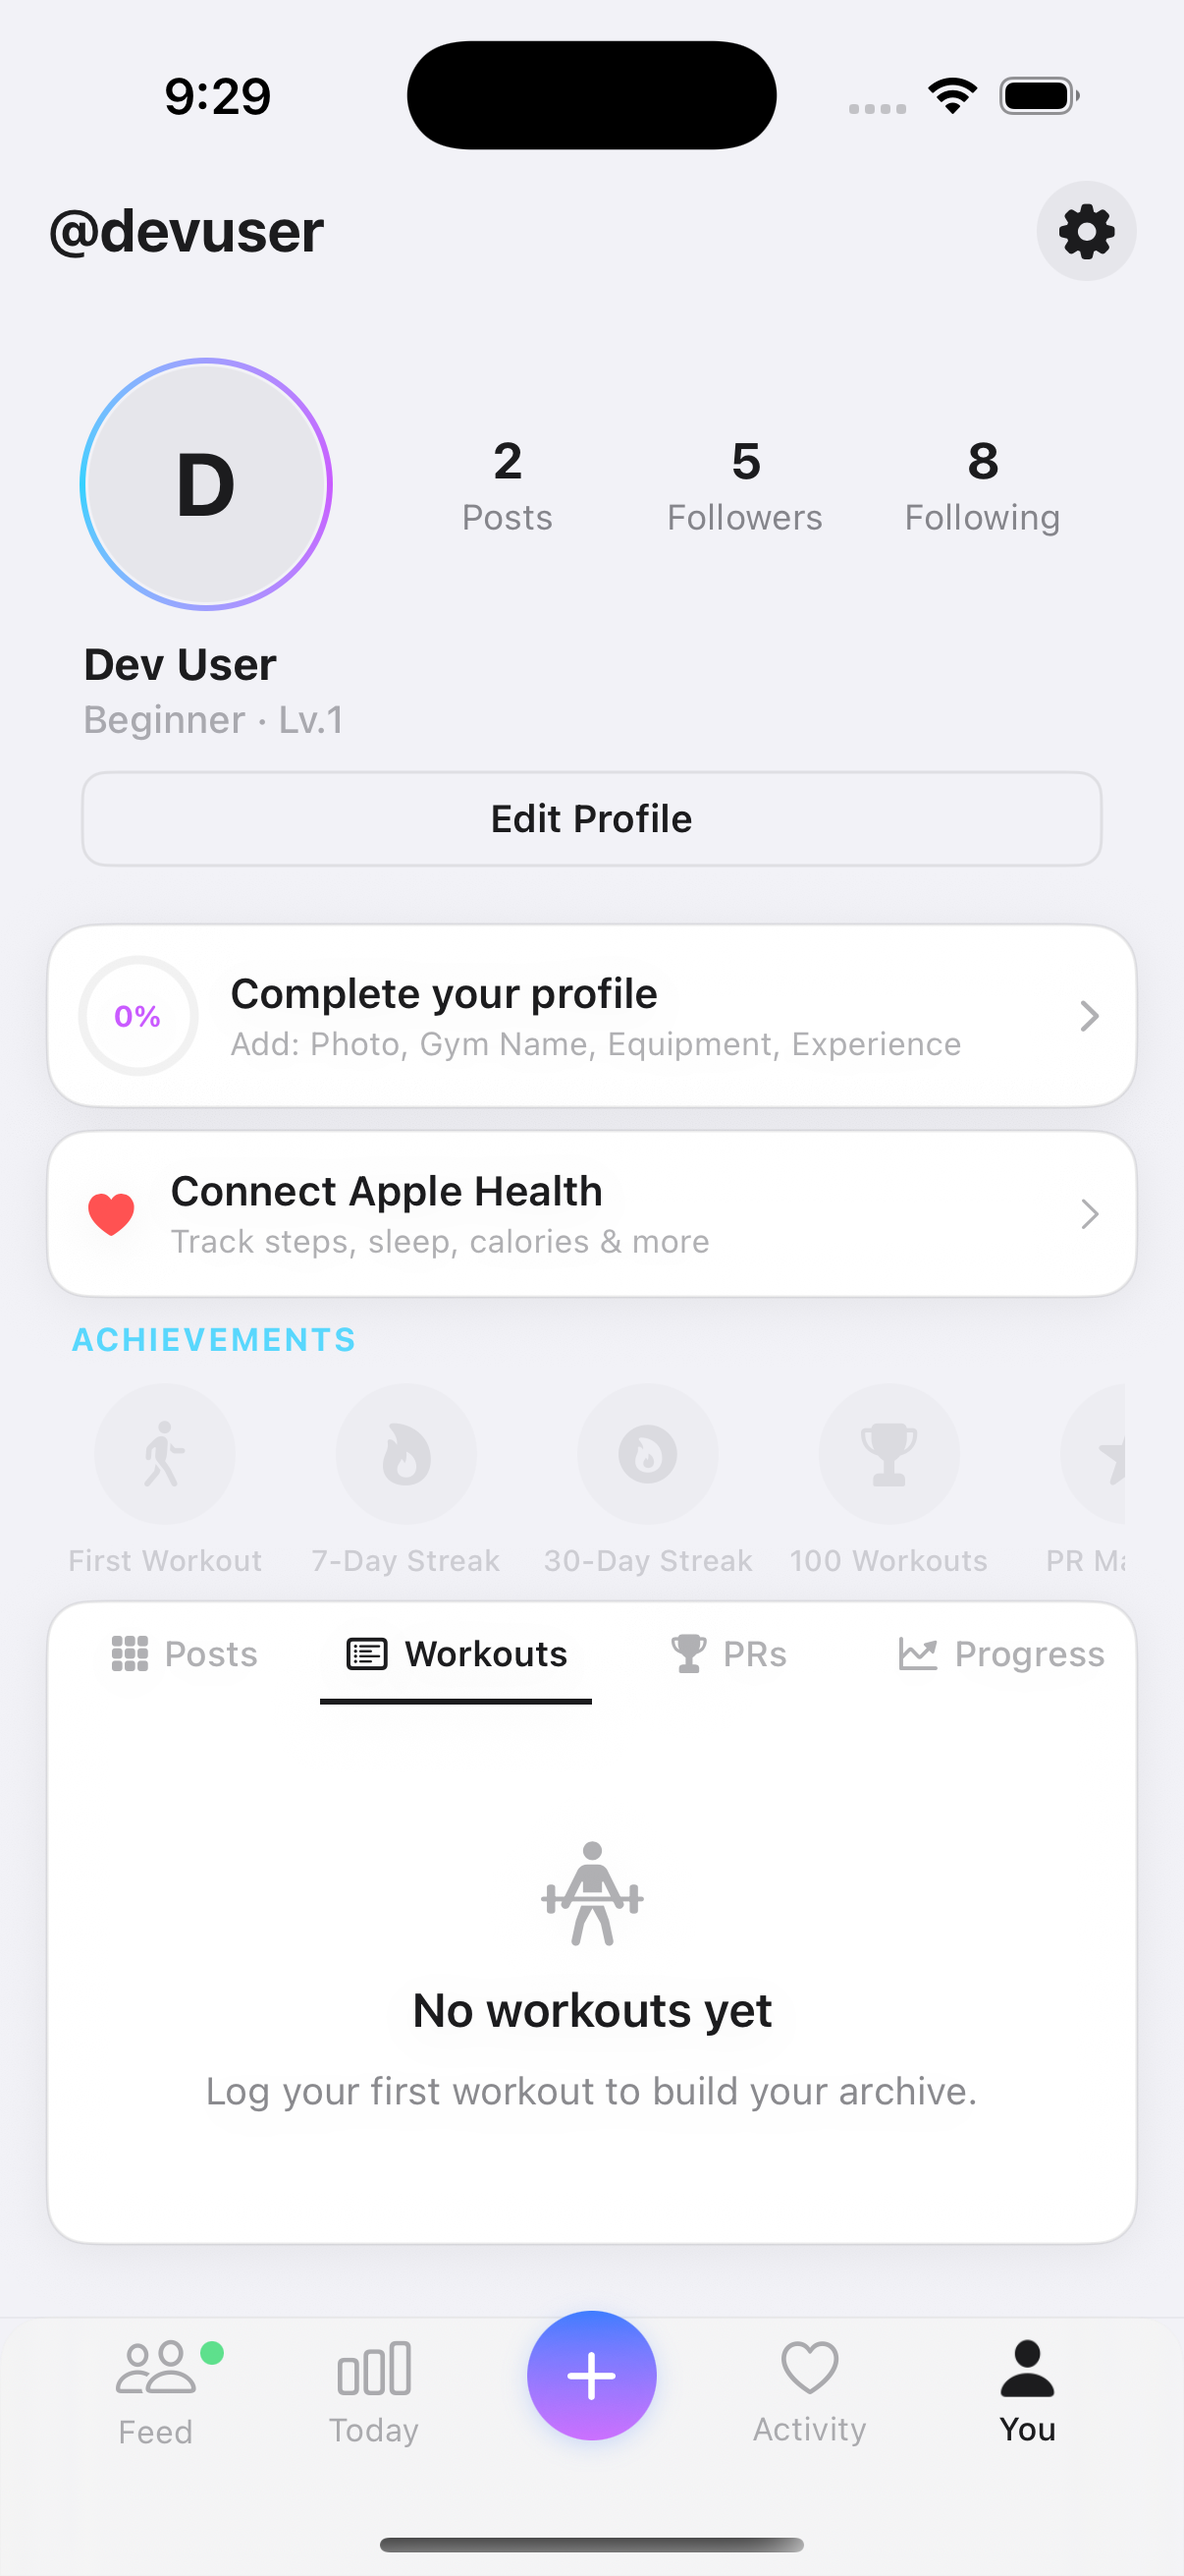
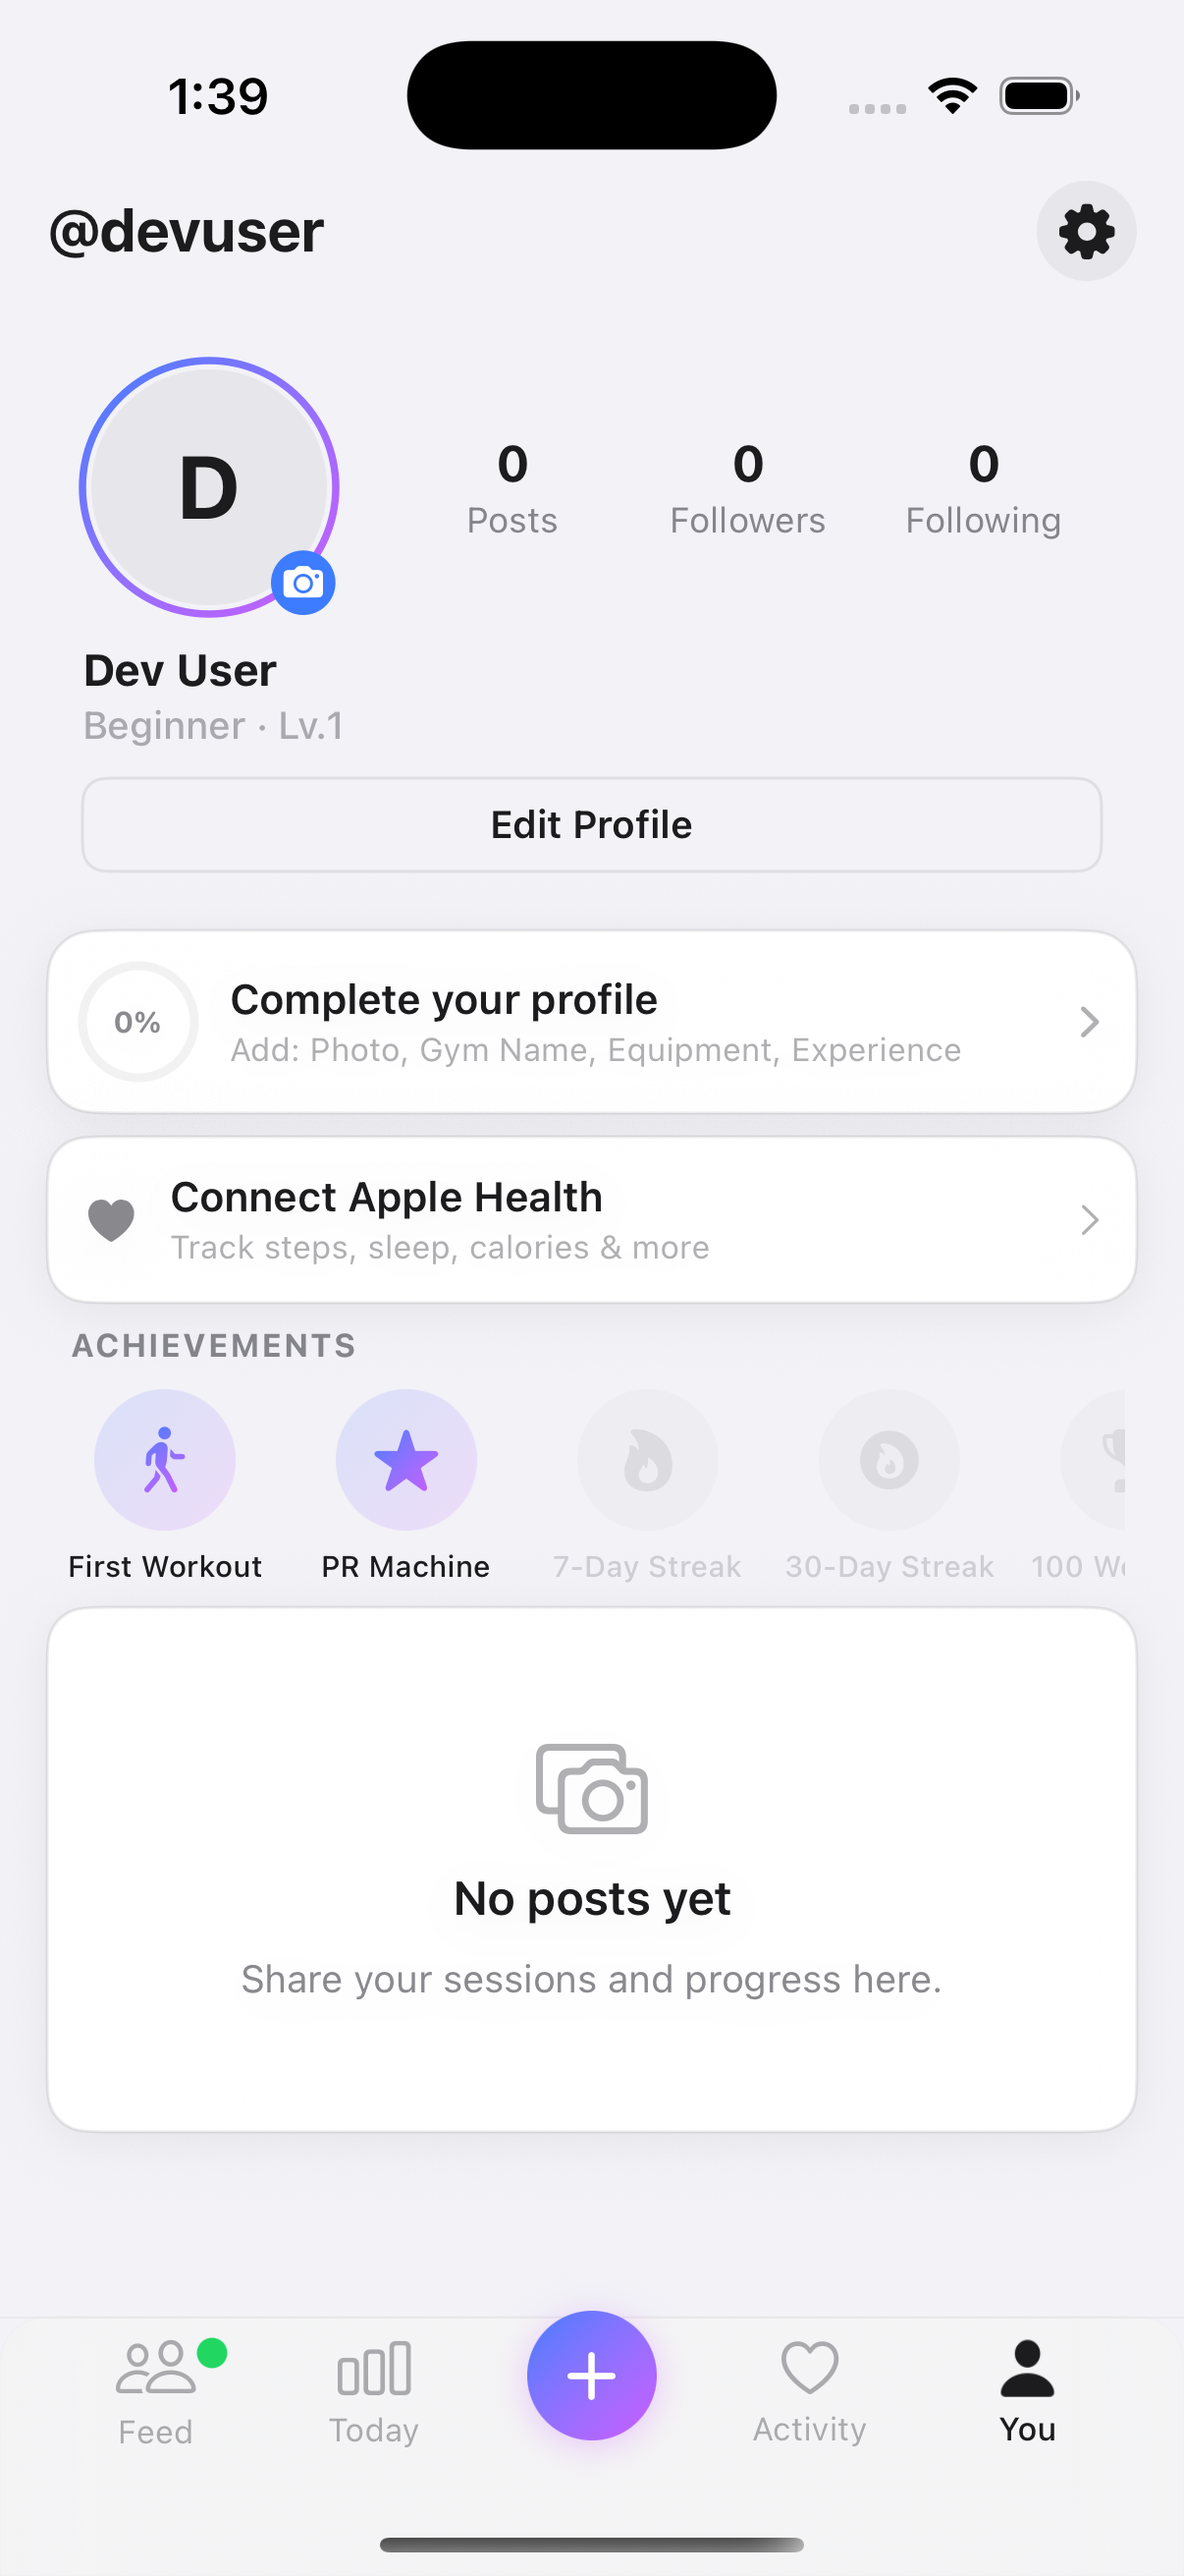
Update README screenshots with varied app screens
Replace 2 duplicate screenshots with 9 varied screenshots covering
today dashboard, progress, PRs, active workout, start workout,
custom splits, discover feed, clubs, and profile.

diff --git a/README.md b/README.md
@@ -5,16 +5,27 @@ Gamified fitness app for iOS. Real time workout tracking, multi provider AI coac
 > SwiftUI · SwiftData · Swift 5.9 · iOS 17+ · XcodeGen
 
 <p align="center">
-  <img src=".github/screenshots/feed.png" width="200" alt="Feed" />
+  <img src=".github/screenshots/today.png" width="230" alt="Today dashboard" />
   &nbsp;&nbsp;
-  <img src=".github/screenshots/today.png" width="200" alt="Today" />
+  <img src=".github/screenshots/progress.png" width="230" alt="Progress overview" />
   &nbsp;&nbsp;
-  <img src=".github/screenshots/start-workout.png" width="200" alt="Start Workout" />
+  <img src=".github/screenshots/progress_prs.png" width="230" alt="PRs and exercise trends" />
 </p>
+
 <p align="center">
-  <img src=".github/screenshots/activity.png" width="200" alt="Activity" />
+  <img src=".github/screenshots/active_workout.png" width="230" alt="Active workout" />
   &nbsp;&nbsp;
-  <img src=".github/screenshots/profile.png" width="200" alt="Profile" />
+  <img src=".github/screenshots/start_workout.png" width="230" alt="Start workout" />
+  &nbsp;&nbsp;
+  <img src=".github/screenshots/custom_workout.png" width="230" alt="Custom workout splits" />
+</p>
+
+<p align="center">
+  <img src=".github/screenshots/discover.png" width="230" alt="Discover feed" />
+  &nbsp;&nbsp;
+  <img src=".github/screenshots/clubs.png" width="230" alt="Clubs" />
+  &nbsp;&nbsp;
+  <img src=".github/screenshots/profile.png" width="230" alt="Profile" />
 </p>
 
 ---
